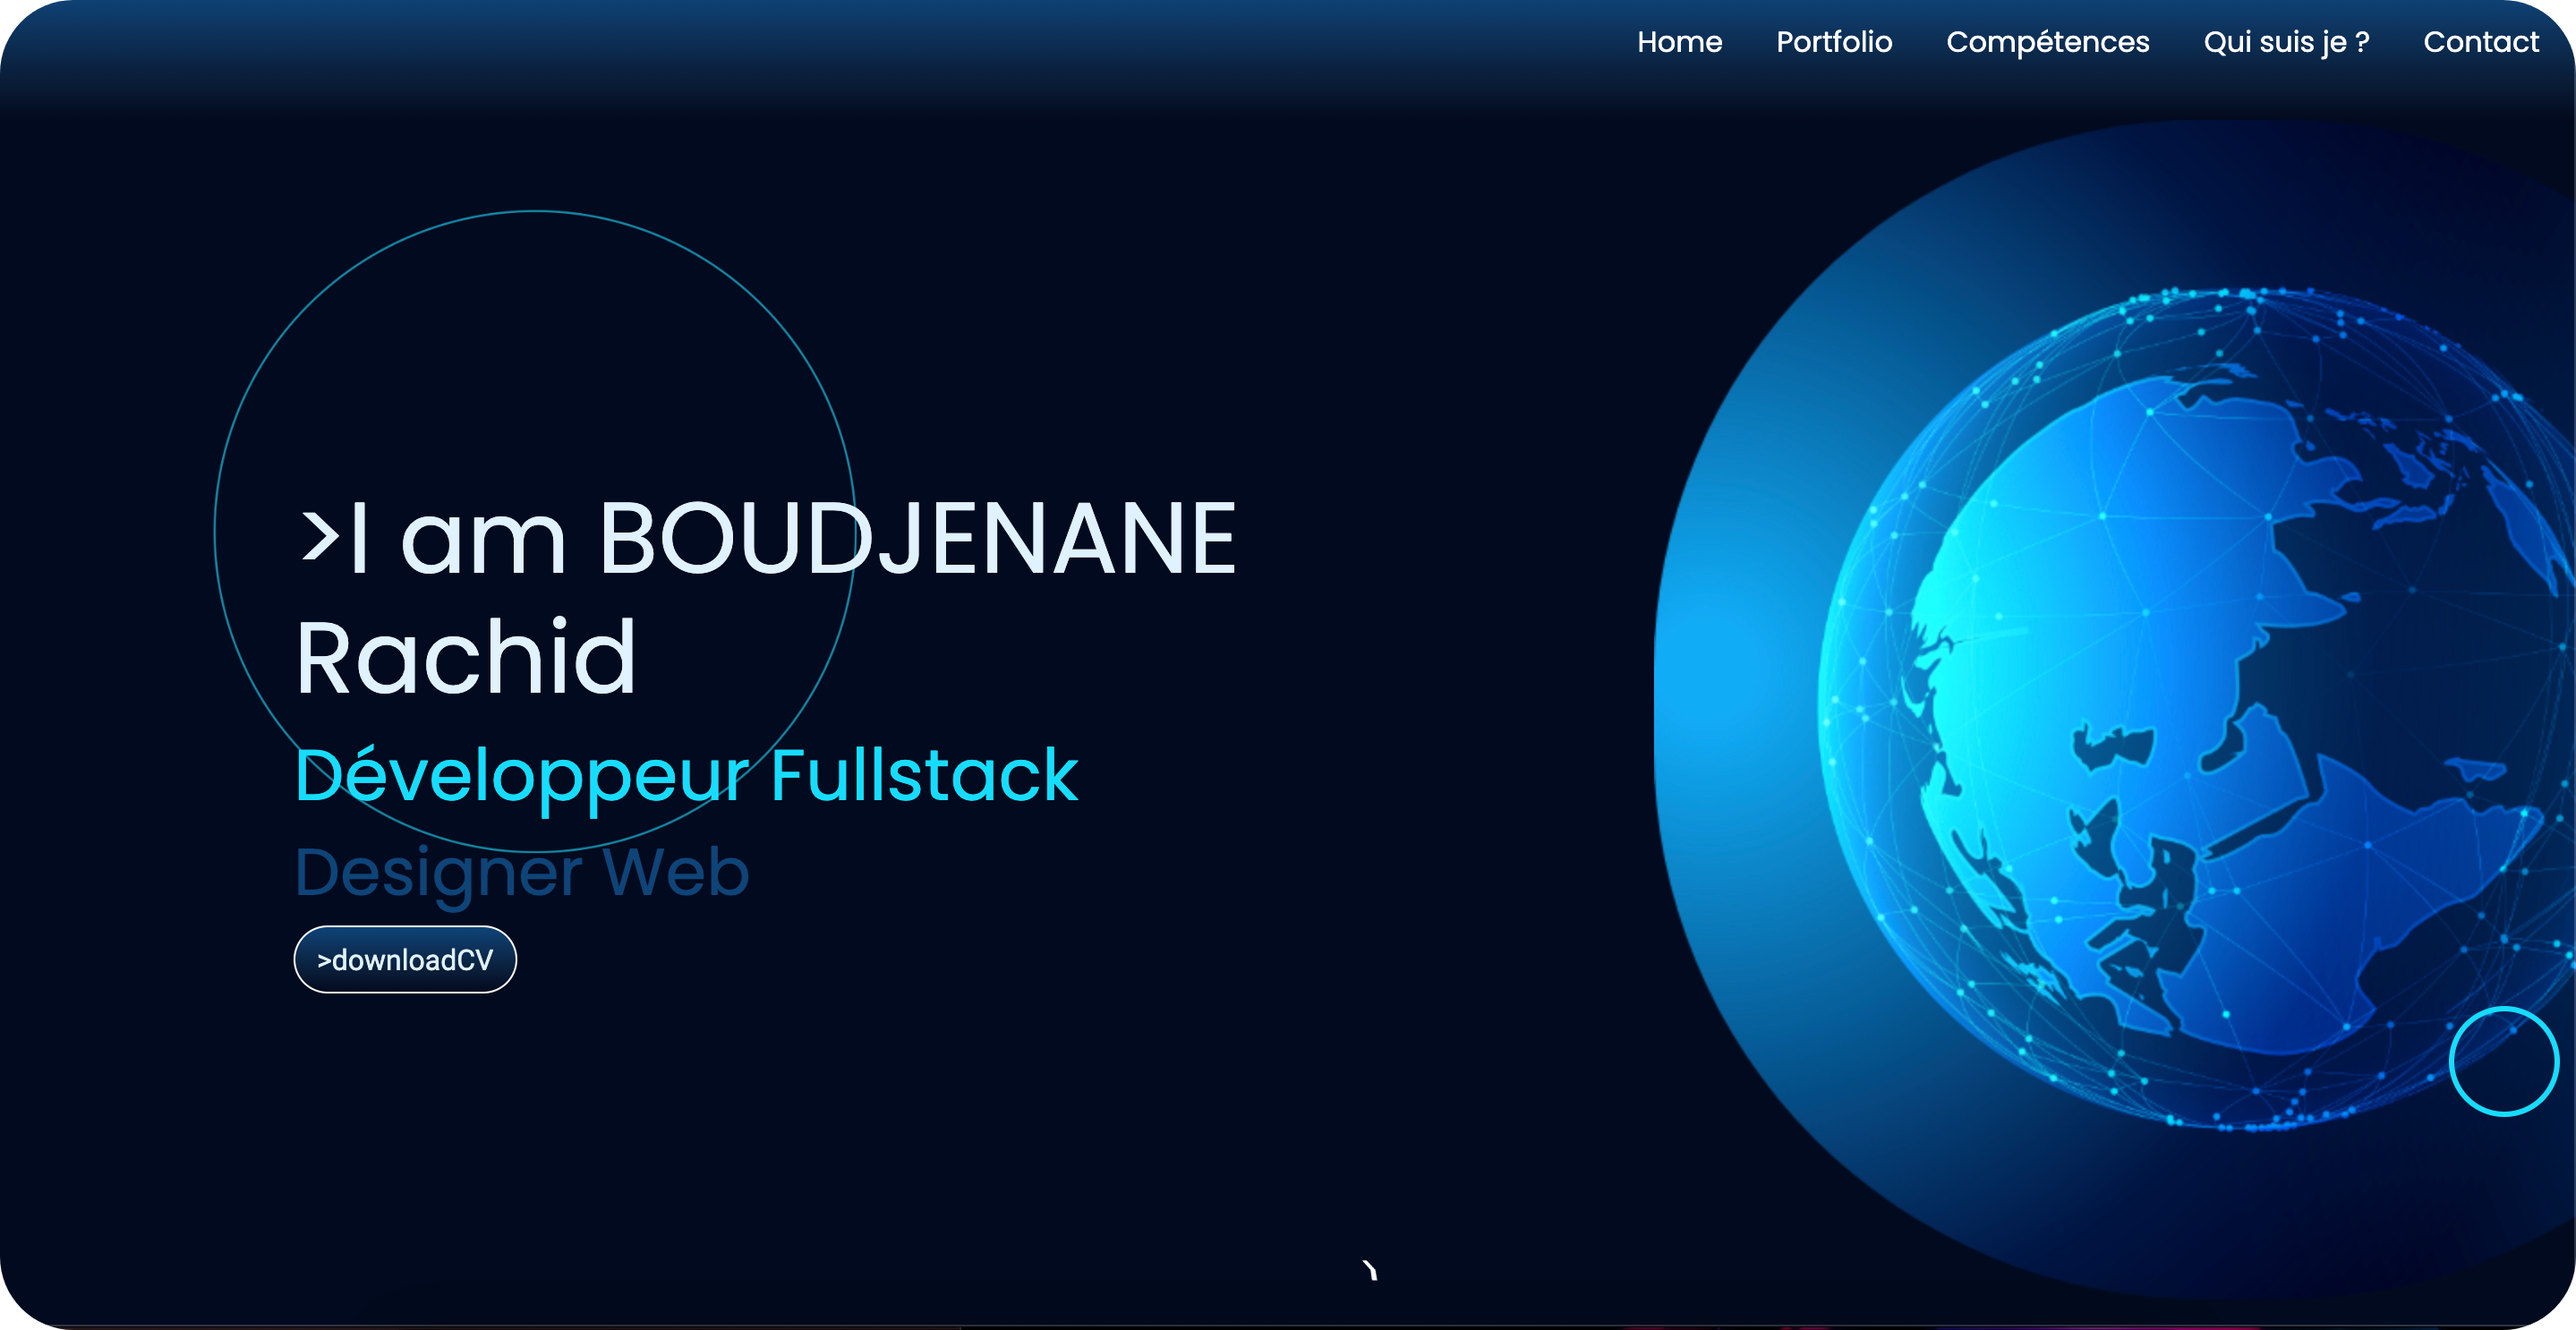
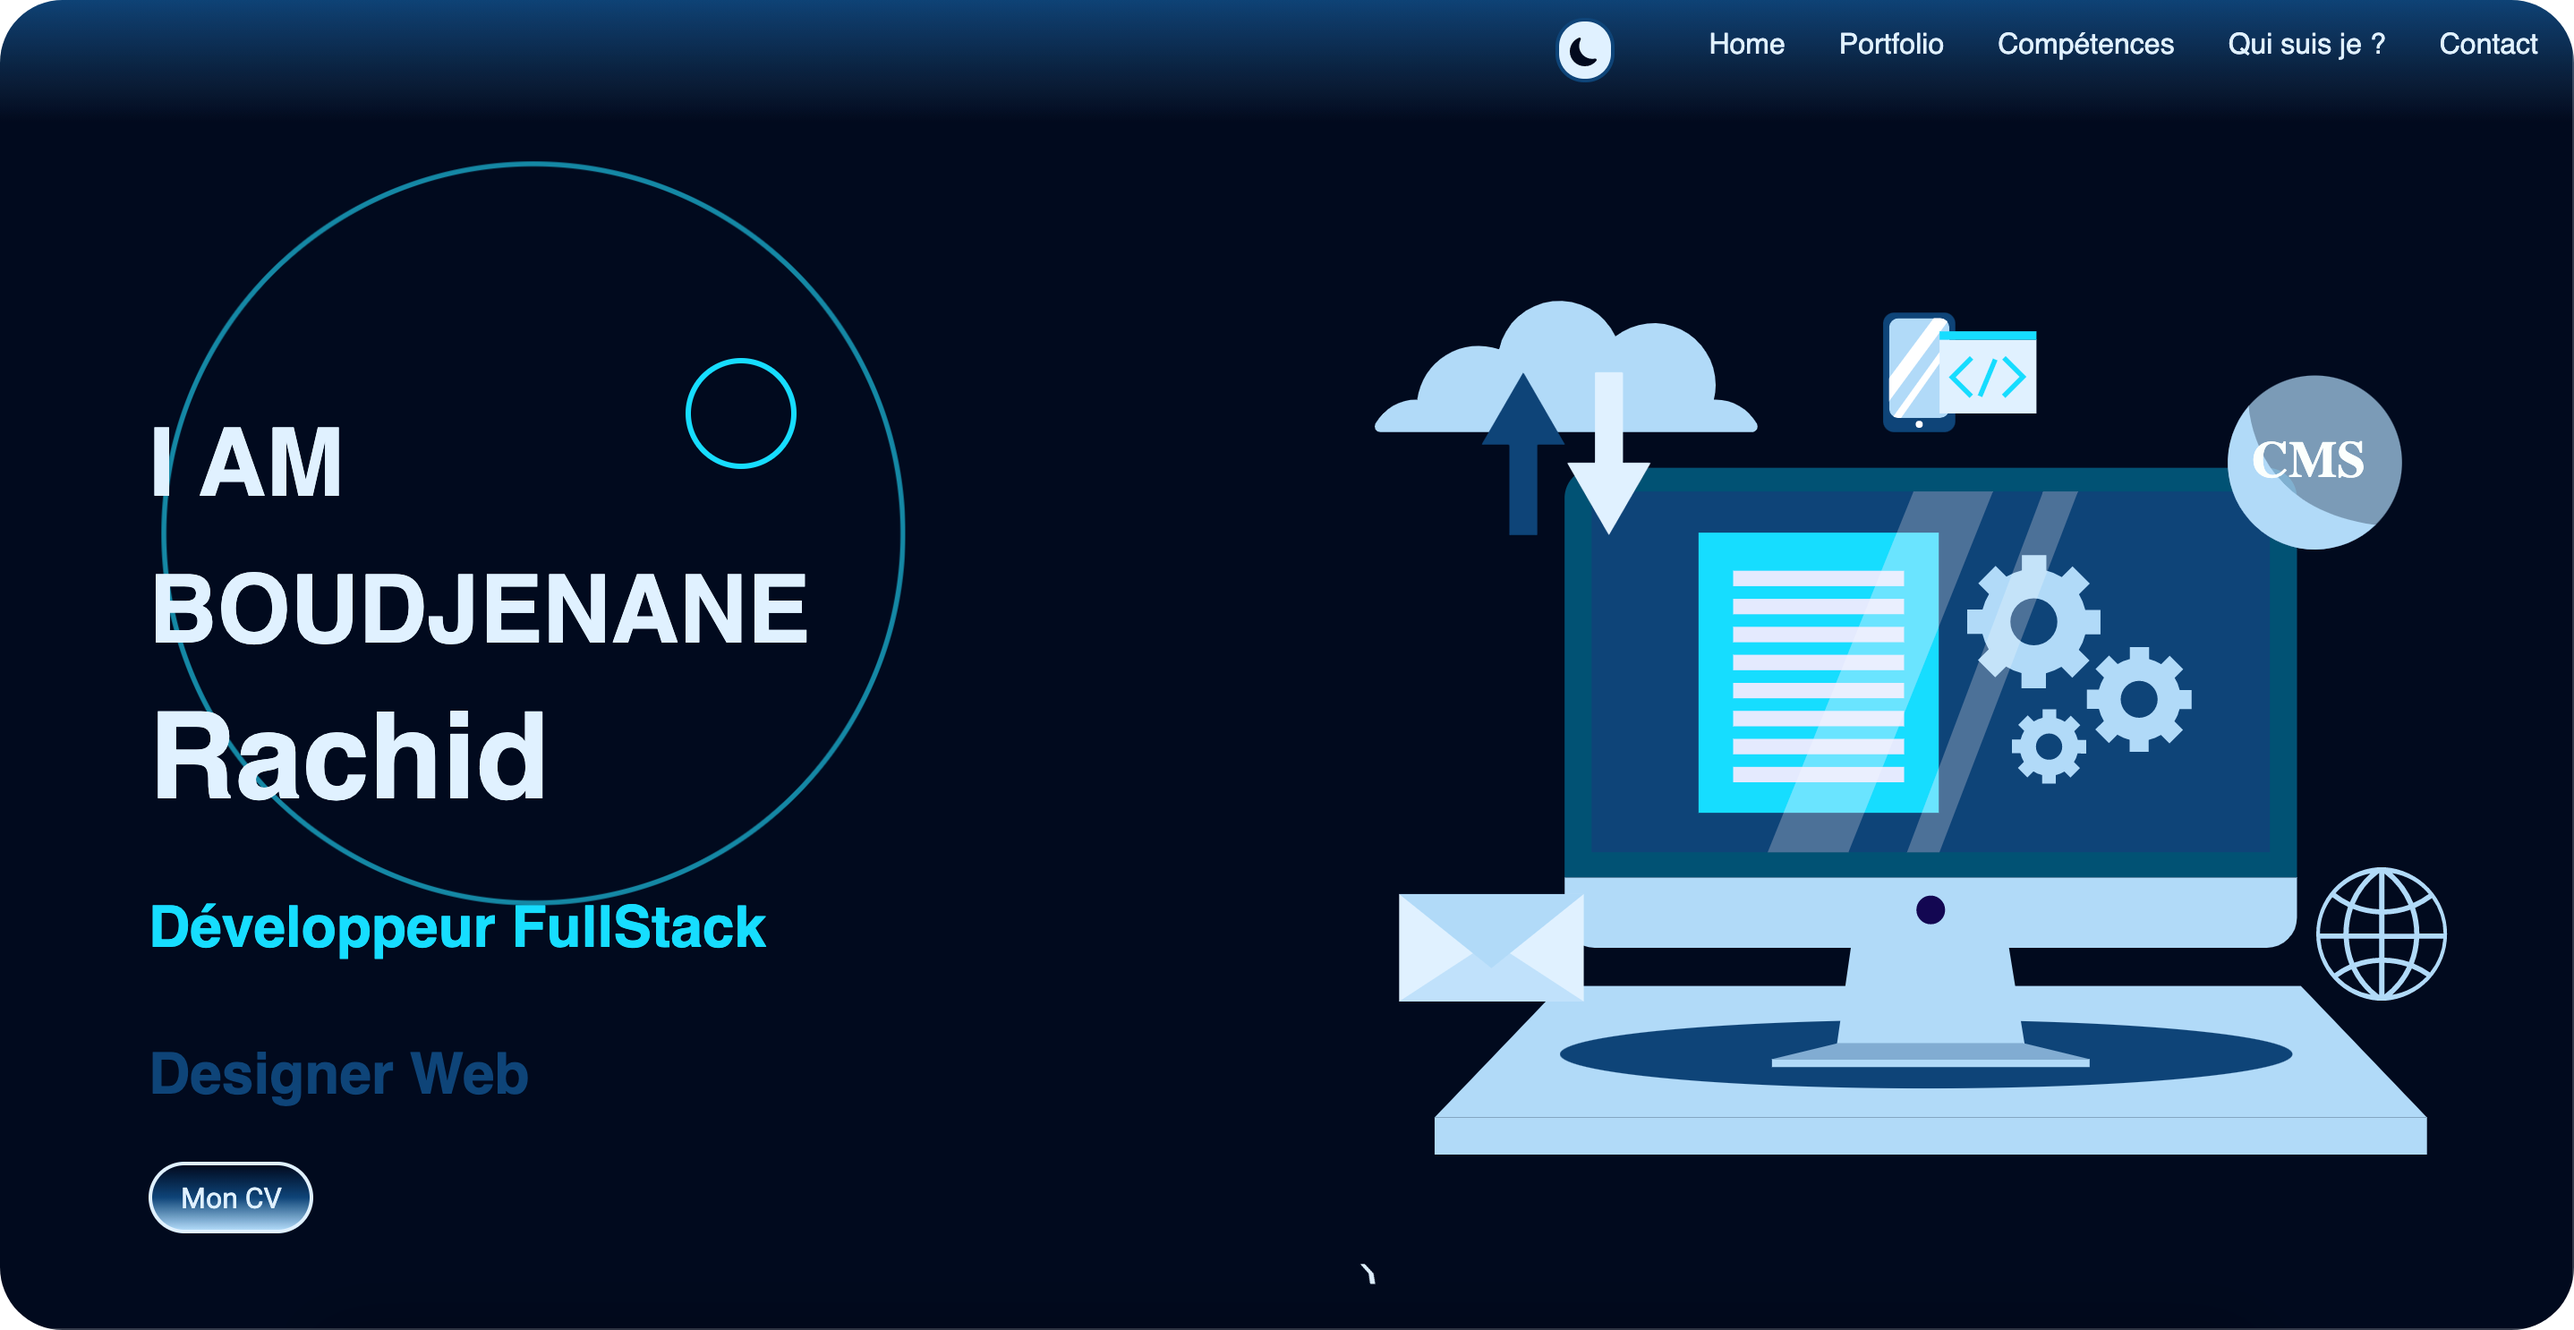
404 done

diff --git a/src/views/Skills.js b/src/views/Skills.js
@@ -114,7 +114,7 @@ export default function Skills() {
             <Navtest />
             <div className=" container main-sk mt-3" role="main">
                 <div className="box-title">
-                    <h2 className="text-center"> >Mes compétences à votre service</h2>
+                    <h2 className="text-center"> Mes compétences à votre service</h2>
                 </div>
                 <div className="row justify-content-between">
                     <motion.div
@@ -122,7 +122,7 @@ export default function Skills() {
                         whileTap={{ scale: 0.9 }}
                         className="col-lg-3 col-md-6 col-sm-7 skills-box justify-content-center">
                         <div className="box-name">
-                            <h4 className="text-center p-2"> >Dévelopement</h4>
+                            <h4 className="text-center p-2"> Dévelopement</h4>
                         </div>
                         <SkillsData datas={skills} />
                     </motion.div>
@@ -131,7 +131,7 @@ export default function Skills() {
                         whileTap={{ scale: 0.9 }}
                         className="col-lg-3 col-sm-6 col-7 skills-box justify-content-center">
                         <div className="box-name">
-                            <h4 className="text-center p-2"> >Design  </h4>
+                            <h4 className="text-center p-2"> Design  </h4>
                         </div>
                         <SkillsData datas={design} />
                     </motion.div>
@@ -140,7 +140,7 @@ export default function Skills() {
                         whileTap={{ scale: 0.9 }}
                         className="col-lg-3 col-md-6 col-sm-7 skills-box justify-content-center">
                         <div className="box-name">
-                            <h4 className="text-center p-2"> >Softs Skills </h4>
+                            <h4 className="text-center p-2"> Softs Skills </h4>
                         </div>
                         <SkillsData datas={soft} />
                     </motion.div>

diff --git a/src/views/NotFound.js b/src/views/NotFound.js
@@ -1,17 +1,27 @@
 import React, { Component } from 'react'
 import Mouse from '../components/Mouse'
 import Navtest from "../components/Navtest";
+import {motion} from "framer-motion";
 
 export default class NotFound extends Component {
     render() {
         return (
             <main>
                 <Mouse />
-                <div className="notfound" role="main">
-                    <Navtest />
-                    <h1 className="text-center mt-4 ">Erreur 404:</h1>
-                    <h2 className="text-center"> La page n'existe pas.</h2>
-                    <img src="img/404.png" alt="illustration freepix erreur 404" width="500" className="align-items-center"/>
+                <Navtest />
+                <div className="notfound container" role="main">
+                    <div className="row">
+                        <div className="col">
+                            <h1 className="text-center mt-4 ">Erreur 404:</h1>
+                            <h2 className="text-center"> La page n'existe pas.</h2>
+                        </div>
+                            <motion.div
+                                whileHover={{ scale: 1.1 }}
+                                whileTap={{ scale: 0.9 }}
+                                className="col-12 img-not text-center">
+                                <img src="img/404final.svg" alt="Illustration ordinateur avec un panneau 404"/>
+                            </motion.div>
+                    </div>
                 </div>
             </main>
         )

diff --git a/src/components/AboutComponent.js b/src/components/AboutComponent.js
@@ -25,7 +25,7 @@ const AboutComponent = () => {
                                 <p>Je m’appelle Rachid Boudjenane, développeur web fullstack et web designer Après plusieurs formation autour du Développement Web et mobile et plusieurs expériences professionnelles que je vous laisse consulter sur mon portfolio avec les
                                     <NavLink to="/legal"> Mentions légales</NavLink>. <br/>
 
-                                    Je suis maintenant à la recherche de nouvelles opportunités dans le Web avec les technologies <span>PHP</span>, <span>Symfony</span>, <span>VueJS</span>, <span>ReactJS</span> ou dans l’applicatif avec IOS et la technologie <span>Swift</span>. <br/>
+                                    Je suis maintenant à la recherche de nouvelles opportunités dans le Web design ou le Web avec les technologies <span>PHP</span>, <span>Symfony</span>, <span>VueJS</span>, <span>ReactJS</span> ou dans l’applicatif avec IOS et la technologie <span>Swift</span>. <br/>
 
                                     En parallèle, je continue à m’intéresser à d’autres technologies tels que <span>Python</span>, <span>React Native</span>.
                                     Ces brèves lignes pour vous dire que l’on métier me passionne ! <br/>

diff --git a/src/components/GlobalStyles.js b/src/components/GlobalStyles.js
@@ -5,7 +5,17 @@ export const GlobalStyles = createGlobalStyle`
     color: ${({theme}) => theme.text};
     transition: all 0.50s linear;
   }
+  // not found
+  .notfound h1 {
+    color: ${({theme}) => theme.after};
+  }
+  // legal 
   
+  .legal .big-box {
+    background: ${({theme}) => theme.contactpage};;
+    color: ${({theme}) => theme.text};
+  }
+
   // mouse
 
   .cursor {
@@ -70,6 +80,7 @@ export const GlobalStyles = createGlobalStyle`
   .home .btn {
     background-image: ${({theme}) => theme.btnsk};
     color: ${({theme}) => theme.text};
+    border: 2px solid ${({theme}) => theme.text};
   }
 
   .home .img-home {
@@ -130,6 +141,7 @@ export const GlobalStyles = createGlobalStyle`
 
     .box-name {
       background: ${({theme}) => theme.btnsk};
+      border: 2px solid ${({theme}) => theme.text};
     }
     .box-title{
       background: ${({theme}) => theme.contactpage};;

diff --git a/src/views/Projects.js b/src/views/Projects.js
@@ -74,9 +74,11 @@ export default function Projects() {
             <Navtest />
             <div className="container-lg" role="main">
                 <div className="row mb-3 justify-content-center align-baseline box-title">
-                    <h2 className="text-center"> >Découvrez mes Réalisations</h2>
+                    <h2 className="text-center"> Découvrez mes Réalisations</h2>
                 </div>
-                <Project projets={projectsData}/>
+                <div className="text-center">
+                  <Project projets={projectsData}/>
+                </div>
             </div>
             <ScrollButtons right={"/skills"} left={"/"}/>
         </>

diff --git a/src/views/Home.js b/src/views/Home.js
@@ -33,9 +33,7 @@ export default function Home() {
                     </div>
                         <motion.div
                             whileHover={{ scale: 1.1 }}
-                            whileTap={{ scale: 0.9 }}className="col-lg-5 img-home">
-                            <div className="mac">
-                            </div>
+                            whileTap={{ scale: 0.9 }}className="col-lg-5 col-sm-12 img-home">
                         </motion.div>
 
                 </div>

diff --git a/src/components/ContactForm.js b/src/components/ContactForm.js
@@ -92,7 +92,7 @@ const ContactForm = () => {
 
     return (
         <form className="contact-form">
-            <h2>>Contactez-moi</h2>
+            <h2>Contactez-moi</h2>
             <form className="form-content">
                 <input
                     type="text"

diff --git a/src/style/views/_notfound.scss b/src/style/views/_notfound.scss
@@ -3,3 +3,12 @@ h1{
   text-align: center;
   color: $color3;
 }
+
+.notfound img{
+  max-width: 50%;
+  margin-top: 30px;
+
+  @media screen and (max-width: 630px){
+    max-width: 70%;
+  }
+}

diff --git a/src/style/views/_projects.scss b/src/style/views/_projects.scss
@@ -4,6 +4,9 @@
   box-shadow: 0px 4px 10px rgba(51, 51, 51, 0.637);
   padding: 10px;
 }
+a, a:visited{
+  color: inherit;
+}
 
 .overlay {
   max-height: 430px;

diff --git a/src/style/views/_legal.scss b/src/style/views/_legal.scss
@@ -1,7 +1,4 @@
-html .legal{
-  overflow-x: scroll;
-  overflow-y: scroll;
-}
+
 .big-box {
   font-family: 'Poppins', sans-serif;
   border-radius: 32px;

diff --git a/src/style/components/_navigation.scss b/src/style/components/_navigation.scss
@@ -87,6 +87,9 @@
     width: 45px;
     height: 45px;
   }
+  .toogle{
+    margin-top: 10px;
+  }
 
   .option {
     display: flex;

diff --git a/src/style/index.scss b/src/style/index.scss
@@ -10,6 +10,7 @@
 @import "views/skills";
 @import "components/scroll";
 @import "views/legal";
+@import "views/notfound";
 
 
 
